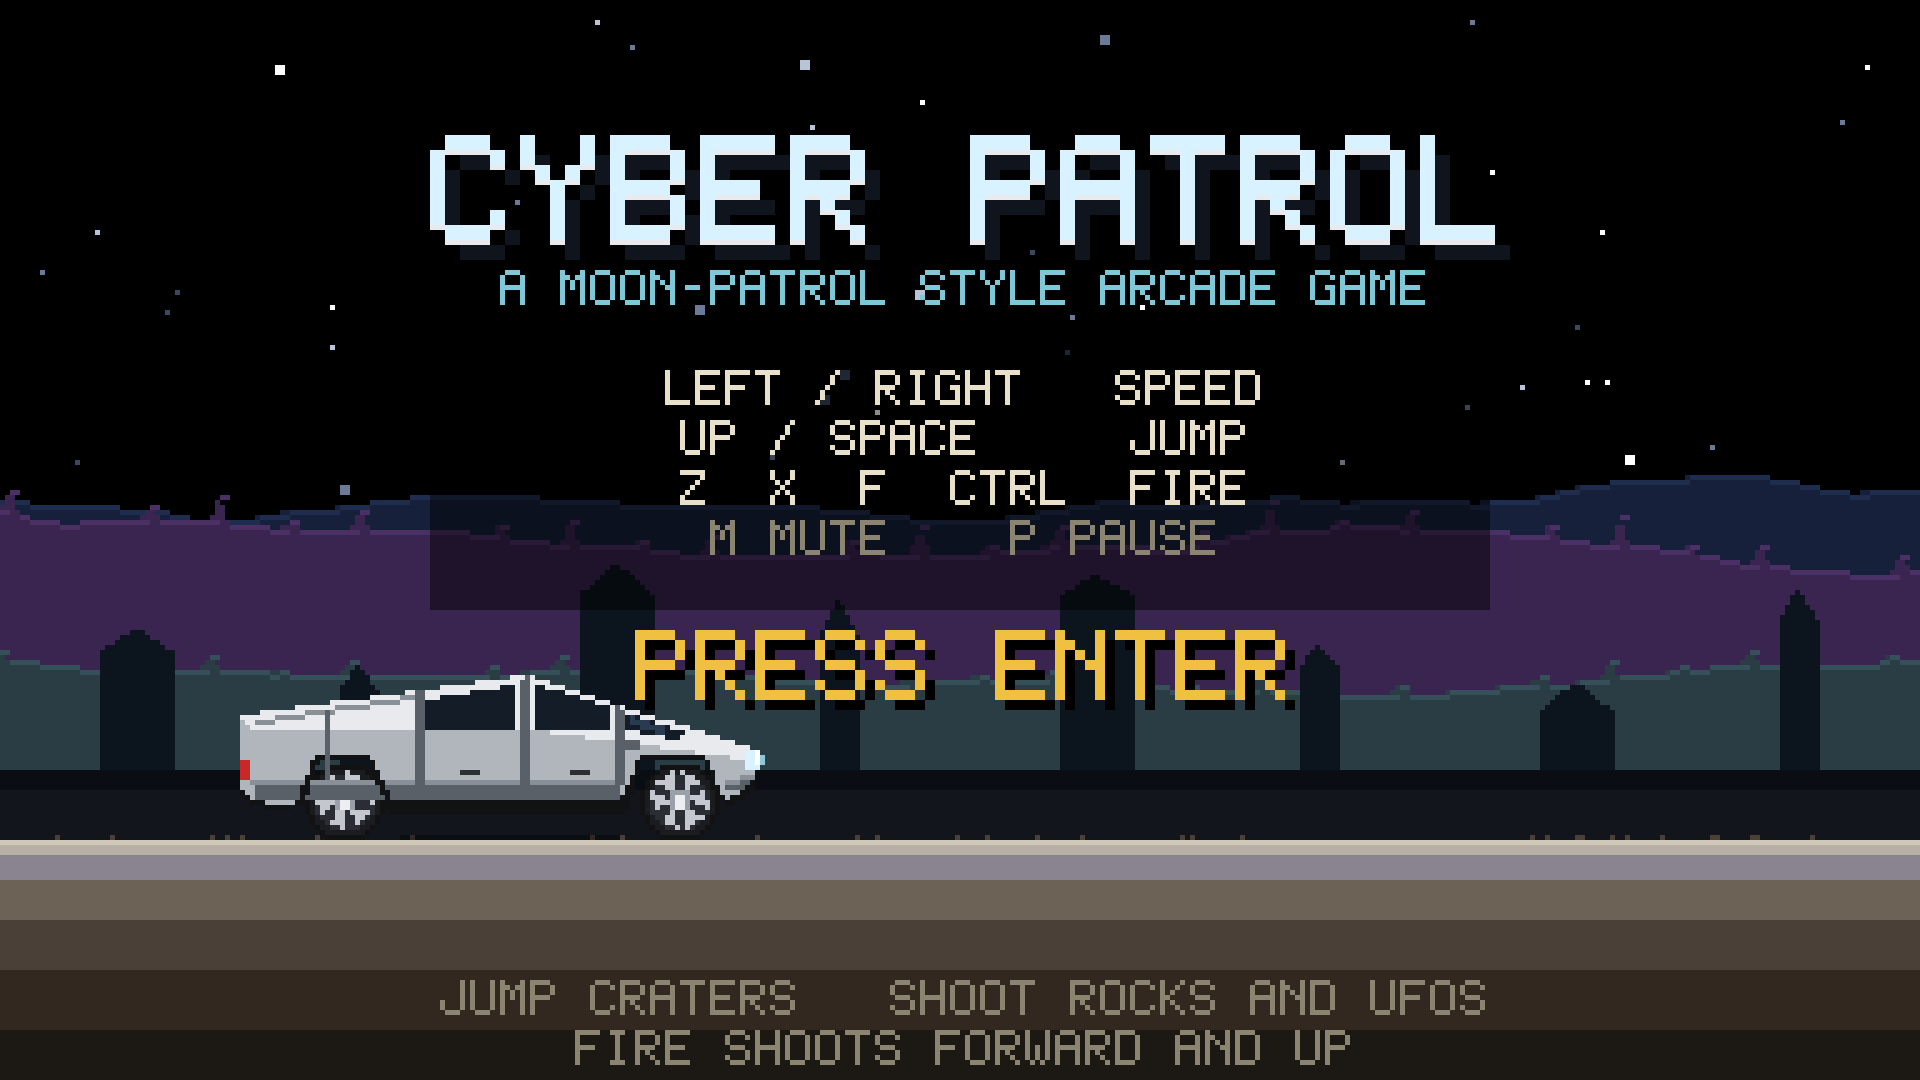
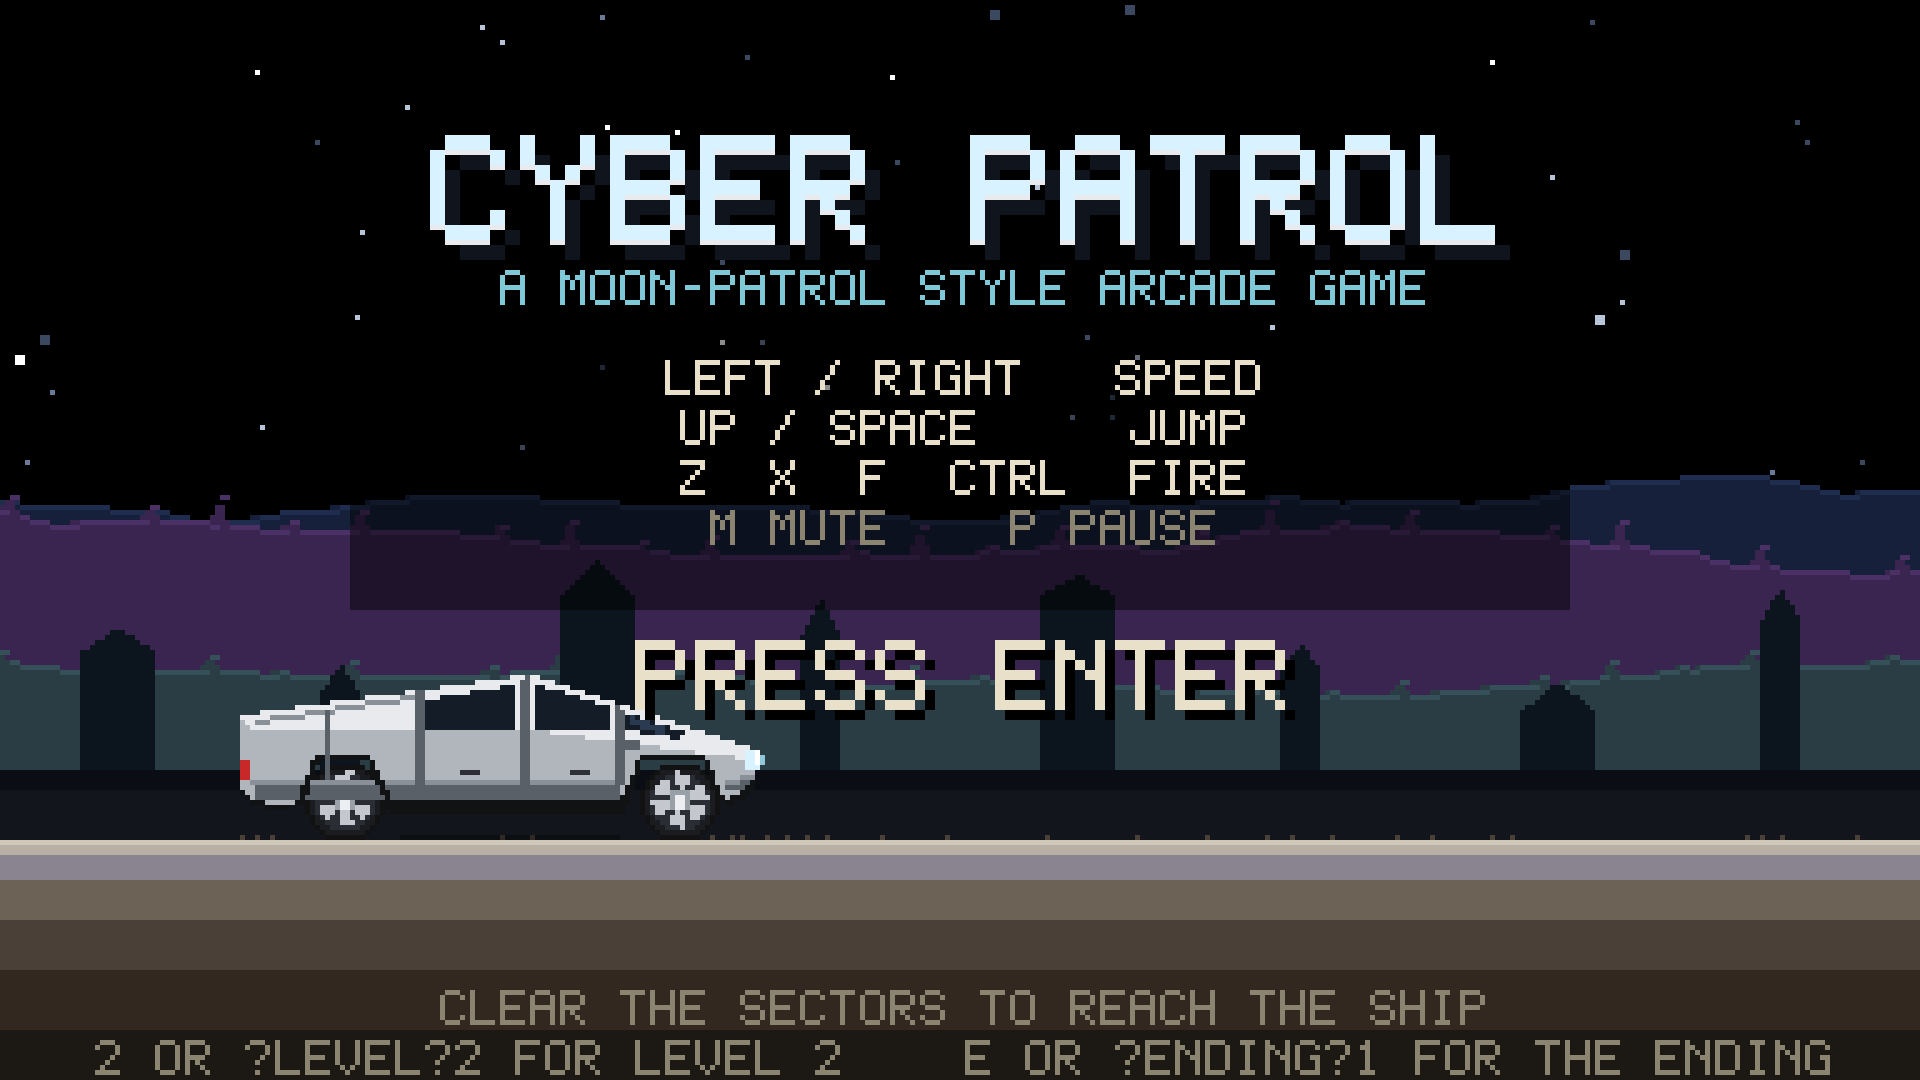
Lengthen jumps so obstacles clear, and keep the Roadster a surprise
Lower gravity and add airborne carry so both vehicles clear every
obstacle type at min, default, and max speed.

Restore pixel-art saucers as the usual airborne enemies; the photo
head (and fireballs) appears only once per level.

Strip Roadster and thruster mentions from the title screen and README.
The Level 2 intro reveals the Roadster, and a PRESS T FOR THRUSTERS
hint appears at the start of the level, fading after a few seconds or
once used.

diff --git a/index.html b/index.html
@@ -84,9 +84,10 @@
   const L2_TIME = 51;
   const L2_THRUST = 17; // 1/3 of the level-2 time budget (51 s)
   const START_TIME = L1_TIME;
-  const JUMP_V0 = -3.35;
-  const GRAVITY = 0.2;
-  const JUMP_APEX = 26.4;
+  const JUMP_V0 = -2.45;
+  const GRAVITY = 0.05;
+  const JUMP_APEX = 58.8; // discrete peak of JUMP_V0 / GRAVITY
+  const JUMP_CARRY = 0.9; // extra px/frame while airborne, so min-speed jumps still clear
   const HEAD_W = 19, HEAD_H = 26;
   const HEAD_MOUTH_X = 0.59, HEAD_MOUTH_Y = 0.69;
 
@@ -547,6 +548,8 @@
   let deathTimer = 0;
   let flash = 0;
   let hintTimer = 0;
+  let thrustHintTimer = 0;
+  let headSpawned = false;
   let level = 1;
   let wantedLevel = 1;
   let introTimer = 0;
@@ -654,8 +657,9 @@
     r.w = r.kind ? 14 : 10;
     r.h = r.kind ? 12 : 8;
   }
-  function spawnUfo(pattern) {
+  function spawnUfo(pattern, kind) {
     const d = difficulty();
+    const isHead = kind === "head";
     ufos.push({
       x: worldX + IW + 10,
       y: 28 + Math.random() * 50,
@@ -663,10 +667,12 @@
       vy: 0,
       phase: Math.random() * Math.PI * 2,
       pattern: pattern || 0,
+      kind: isHead ? "head" : "ship",
       hp: 1,
       live: true,
       bombCd: 50 + Math.random() * 80,
-      w: HEAD_W, h: HEAD_H
+      w: isHead ? HEAD_W : 16,
+      h: isHead ? HEAD_H : 8
     });
   }
   function spawnCheckpoint(x, letter) {
@@ -712,6 +718,8 @@
     flash = 0;
     shake = 0;
     hintTimer = 240;
+    thrustHintTimer = (level === 2 ? 240 : 0);
+    headSpawned = false;
     player.sx = 72;
     player.speed = player.defaultSpeed;
     player.jumpV = 0;
@@ -1911,8 +1919,17 @@
   }
 
   function drawUfo(g, u) {
-    // Photographic head is composited in render() after the 5x present
-    // so the face stays readable; hitbox/update still use u.x/u.y/u.w/u.h.
+    if (u.kind === "head") return; // photographic head is composited after the 5x present
+    const sx = Math.round(u.x - worldX);
+    const sy = Math.round(u.y);
+    if (sx < -20 || sx > IW + 20) return;
+    fillPoly(g, [[sx - 2, sy], [sx + 8, sy - 4], [sx + 18, sy], [sx + 16, sy + 3], [sx, sy + 3]], C.ufoDk);
+    fillPoly(g, [[sx, sy], [sx + 8, sy - 3], [sx + 16, sy], [sx + 14, sy + 2], [sx + 2, sy + 2]], C.ufo);
+    fillPoly(g, [[sx + 5, sy - 3], [sx + 8, sy - 6], [sx + 11, sy - 3]], C.ufoHi);
+    const lit = (frame + (u.phase * 10) | 0) % 8 < 5;
+    fillRect(g, sx + 3, sy + 1, 2, 1, lit ? C.ufoLite : C.ufoHi);
+    fillRect(g, sx + 7, sy + 1, 2, 1, !lit ? C.ufoLite : C.ufoDk);
+    fillRect(g, sx + 11, sy + 1, 2, 1, lit ? C.ufoLite : C.ufoHi);
   }
 
   function drawHeadsOnView() {
@@ -1922,7 +1939,7 @@
     vctx.imageSmoothingEnabled = true;
     for (let i = 0; i < ufos.length; i++) {
       const u = ufos[i];
-      if (!u.live) continue;
+      if (!u.live || u.kind !== "head") continue;
       const dx = (u.x - worldX + sceneOx) * s;
       const dy = (u.y + sceneOy) * s;
       const dw = u.w * s, dh = u.h * s;
@@ -2054,8 +2071,13 @@
     u.live = false;
     score += 500;
     const cx = u.x + (u.w >> 1), cy = u.y + (u.h >> 1);
-    burst(cx, cy, "#e8c8a8", 16, 2.4, 26);
-    burst(cx, cy, C.warning, 8, 1.8, 18);
+    if (u.kind === "head") {
+      burst(cx, cy, "#e8c8a8", 16, 2.4, 26);
+      burst(cx, cy, C.warning, 8, 1.8, 18);
+    } else {
+      burst(cx, cy, C.ufoHi, 16, 2.4, 26);
+      burst(cx, cy, C.ufoLite, 8, 1.8, 18);
+    }
     SFX.explode();
   }
 
@@ -2115,6 +2137,7 @@
     if (level === 2 && input.thrustPress && player.live) {
       if (!thrustOn && thrustTime > 0) {
         thrustOn = true;
+        thrustHintTimer = 0;
         if (player.onGround) player.jumpV = JUMP_V0;
         if (typeof SFX.thrust === "function") SFX.thrust();
       } else if (thrustOn) {
@@ -2153,7 +2176,7 @@
     if (player.muzzle > 0) player.muzzle--;
     if (player.invuln > 0) player.invuln--;
 
-    worldX += player.speed;
+    worldX += player.speed + (!player.onGround && player.live ? JUMP_CARRY : 0);
     generateUntil(worldX + IW + 420);
     score += 0; // distance scored below
     if (frame % 6 === 0) score += 1;
@@ -2193,11 +2216,16 @@
       }
     }
 
-    // ufo waves
+    // ufo waves — ships by default; the photo head appears once per level
     ufoSpawnCd--;
     if (ufoSpawnCd <= 0 && worldX > 500) {
       const d = difficulty();
-      spawnUfo(0);
+      if (!headSpawned && worldX > 900) {
+        spawnUfo(0, "head");
+        headSpawned = true;
+      } else {
+        spawnUfo(0);
+      }
       if (d > 0.35 && Math.random() < 0.4) spawnUfo(1);
       if (level === 2 && Math.random() < 0.45) spawnUfo(1);
       ufoSpawnCd = (level === 2 ? 140 : 180) - d * 70 + Math.random() * 70;
@@ -2223,11 +2251,15 @@
       if (u.y > GROUND_Y - 50) u.y = GROUND_Y - 50;
       u.bombCd--;
       if (u.bombCd <= 0 && u.x < worldX + IW - 20 && u.x > worldX + 40) {
-        bombs.push({
-          x: u.x + u.w * HEAD_MOUTH_X,
-          y: u.y + u.h * HEAD_MOUTH_Y,
-          vx: -0.1, vy: 0.4, live: true
-        });
+        if (u.kind === "head") {
+          bombs.push({
+            x: u.x + u.w * HEAD_MOUTH_X,
+            y: u.y + u.h * HEAD_MOUTH_Y,
+            vx: -0.1, vy: 0.4, live: true, kind: "fireball"
+          });
+        } else {
+          bombs.push({ x: u.x + 8, y: u.y + 6, vx: -0.1, vy: 0.4, live: true, kind: "bomb" });
+        }
         u.bombCd = 70 + Math.random() * 90 - difficulty() * 20;
       }
       // collide bullets
@@ -2349,6 +2381,7 @@
 
     cullWorld();
     if (hintTimer > 0) hintTimer--;
+    if (thrustHintTimer > 0) thrustHintTimer--;
     if (shake > 0) shake *= 0.85;
     if (flash > 0) flash--;
   }
@@ -2463,6 +2496,9 @@
         : "ARROWS SPEED   UP/SPACE JUMP   Z/X/F FIRE   M MUTE";
       drawTextShadow(g, hint, IW / 2, 22, C.hud, 1, "center");
     }
+    if (mode === "playing" && level === 2 && thrustHintTimer > 0 && (thrustHintTimer > 50 || (frame % 20 < 14))) {
+      drawTextShadow(g, "PRESS T FOR THRUSTERS", IW / 2, 44, C.warning, 1, "center", "#101018");
+    }
   }
 
   let sceneOx = 0, sceneOy = 0;
@@ -2493,11 +2529,17 @@
     for (let i = 0; i < checkpoints.length; i++) drawCheckpoint(g, checkpoints[i]);
     for (let i = 0; i < rocks.length; i++) drawRock(g, rocks[i]);
 
-    // fireballs
+    // bombs / fireballs
     for (let i = 0; i < bombs.length; i++) {
       const b = bombs[i];
       if (!b.live) continue;
-      drawFireball(g, b);
+      if (b.kind === "fireball") {
+        drawFireball(g, b);
+      } else {
+        const sx = Math.round(b.x - worldX), sy = Math.round(b.y);
+        fillRect(g, sx - 1, sy - 3, 3, 3, frame % 6 < 3 ? C.warning : C.danger);
+        fillRect(g, sx, sy, 1, 2, C.hud);
+      }
     }
 
     // bullets
@@ -2554,17 +2596,15 @@
     drawText(g, "CYBER PATROL", IW / 2, 27, C.light, 3, "center");
     drawTextShadow(g, "A MOON-PATROL STYLE ARCADE GAME", IW / 2, 54, C.accent, 1, "center");
 
-    fillRect(g, 70, 68, 244, 64, "rgba(0,0,0,0.45)");
+    fillRect(g, 70, 68, 244, 54, "rgba(0,0,0,0.45)");
     drawText(g, "LEFT / RIGHT   SPEED", IW / 2, 72, C.hud, 1, "center");
     drawText(g, "UP / SPACE     JUMP", IW / 2, 82, C.hud, 1, "center");
     drawText(g, "Z  X  F  CTRL  FIRE", IW / 2, 92, C.hud, 1, "center");
-    drawText(g, "T / DOWN        THRUST (LEVEL 2)", IW / 2, 102, C.hud, 1, "center");
-    drawText(g, "M MUTE    P PAUSE", IW / 2, 112, C.hudDim, 1, "center");
+    drawText(g, "M MUTE    P PAUSE", IW / 2, 102, C.hudDim, 1, "center");
 
     const enterCol = (frame % 40 < 20) ? C.warning : C.hud;
-    drawTextShadow(g, "PRESS ENTER", IW / 2, 136, enterCol, 2, "center");
-    drawText(g, "2 LEVELS:  CYBERTRUCK THEN ROADSTER", IW / 2, 188, C.hudDim, 1, "center");
-    drawText(g, "T TOGGLES COLD-GAS THRUSTERS ON LEVEL 2", IW / 2, 198, C.hudDim, 1, "center");
+    drawTextShadow(g, "PRESS ENTER", IW / 2, 128, enterCol, 2, "center");
+    drawText(g, "CLEAR THE SECTORS TO REACH THE SHIP", IW / 2, 198, C.hudDim, 1, "center");
     drawText(g, "2 OR ?level=2 FOR LEVEL 2    E OR ?ending=1 FOR THE ENDING", IW / 2, 208, C.hudDim, 1, "center");
   }
 
@@ -2618,7 +2658,8 @@
     thrustOn = false;
     thrustTime = (level === 2 ? L2_THRUST : 0);
     hintTimer = 240;
-    if (level === 2 && keepScore) {
+    // Always show the Level 2 intro (Roadster reveal), including ?level=2 / key 2.
+    if (level === 2) {
       mode = "levelintro";
       introTimer = 150;
       player.speed = player.defaultSpeed;
@@ -2754,19 +2795,21 @@
     // keep the vehicle on screen for the verification shot
     craters.forEach((c) => { if (c.x < worldX + 520) c.live = false; });
     rocks.forEach((r) => { if (r.x < worldX + 520) r.live = false; });
-    spawnUfo(0);
+    spawnUfo(0, "head");
     const u = ufos[0];
     u.x = worldX + 200;
     u.y = 36;
     u.vx = -0.35;
     u.bombCd = 10000;
     player.invuln = 999;
+    headSpawned = true;
     bombs.push({
       x: u.x + u.w * HEAD_MOUTH_X,
       y: 84,
       vx: -0.05,
       vy: 0.22,
-      live: true
+      live: true,
+      kind: "fireball"
     });
   }
 

diff --git a/README.md b/README.md
@@ -2,10 +2,9 @@
 
 A single-file HTML5 tribute to the classic arcade game Moon Patrol with original pixel art. Open `index.html` in a browser.
 
-- Level 1: Cybertruck. Level 2: Tesla Roadster with cold-gas thrusters (T or Down).
-- Ending: reach the Starship.
+- Two levels and an ending at the Starship.
 
-Controls: Left/Right speed, Up/W/Space jump, Z/X/F fire, T/Down thrusters (level 2), M mute, P/Esc pause, Enter start.
+Controls: Left/Right speed, Up/W/Space jump, Z/X/F fire, M mute, P/Esc pause, Enter start.
 Test shortcuts: `?level=2`, `?ending=1`, or press 2 / E on the title screen.
 
 `screenshots/` holds previews; `ref/` holds reference material used for proportions (not used by the game).
